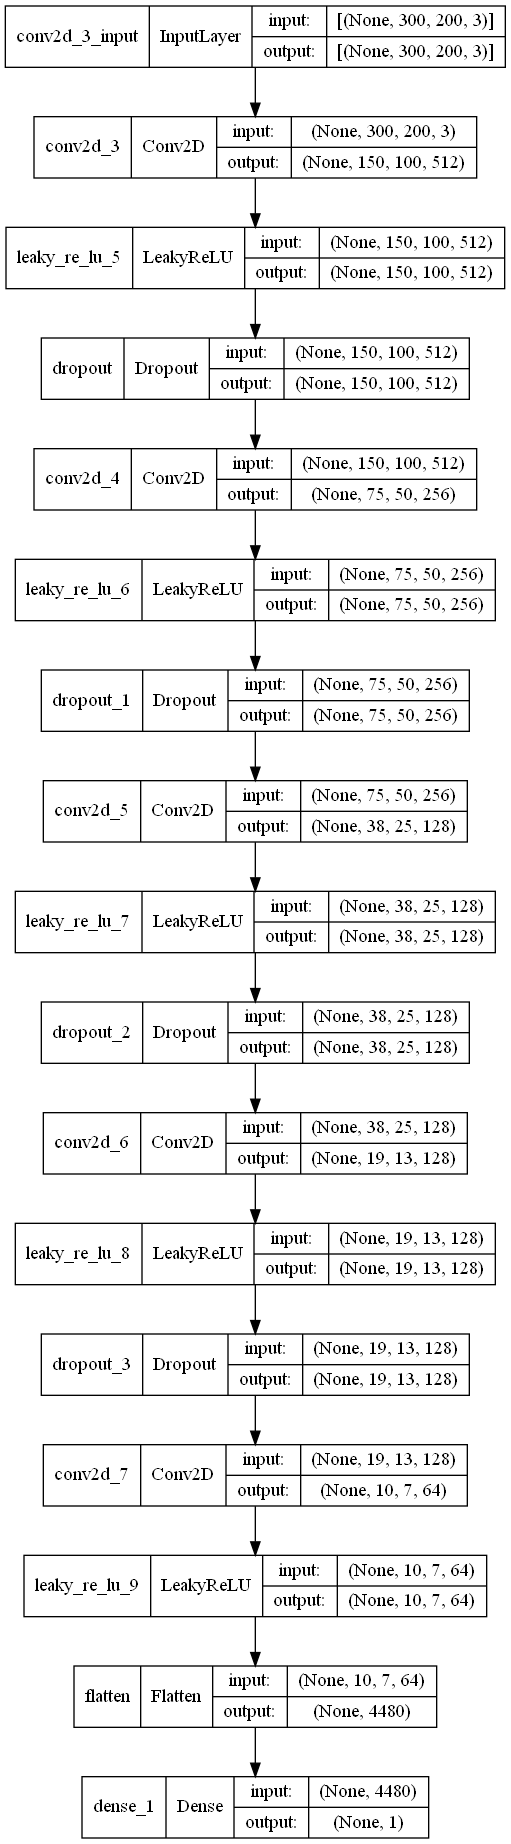
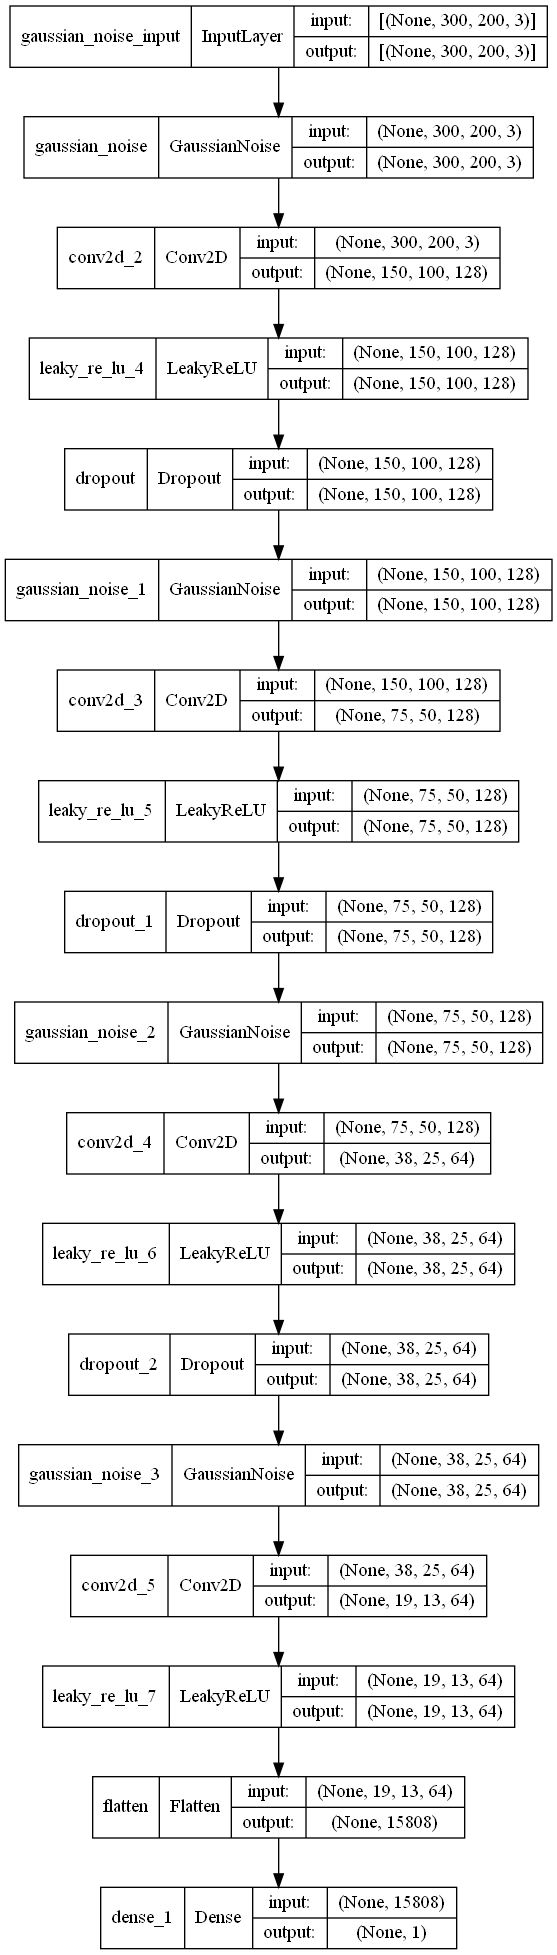
Gaussian discriminator update

Changed region(s): [[0.0, 0.0, 0.998, 1.0], [0.0, 0.1236, 0.0294, 0.1546]]

diff --git a/utils/modify_model.py b/utils/modify_model.py
@@ -5,7 +5,7 @@ from tensorflow.keras.layers import GaussianNoise
 
 def add_gaussian_noise_disc(path_to_discriminator, path_to_output):
     old_model = load_model(path_to_discriminator)
-    new_model = Sequential()
+    new_model = Sequential(name="gaussian_sequential") # Need to set a name, otherwise it will conflict
 
     for layer in old_model.layers:
         if "conv2d" in layer.name:
@@ -30,7 +30,7 @@ def add_gaussian_noise_disc(path_to_discriminator, path_to_output):
     return new_model
 
 
-m = load_model("../checkpoints/discriminator_model_323_1800.h5")
-n = add_gaussian_noise_disc("../checkpoints/discriminator_model_323_1800.h5", "../checkpoints/discriminator_model_gauss_1800.h5")
+m = load_model("../checkpoints/discriminator_model_323_1900.h5")
+n = add_gaussian_noise_disc("../checkpoints/discriminator_model_323_1900.h5", "../checkpoints/discriminator_model_gauss_1900.h5")
 
 n.summary()
